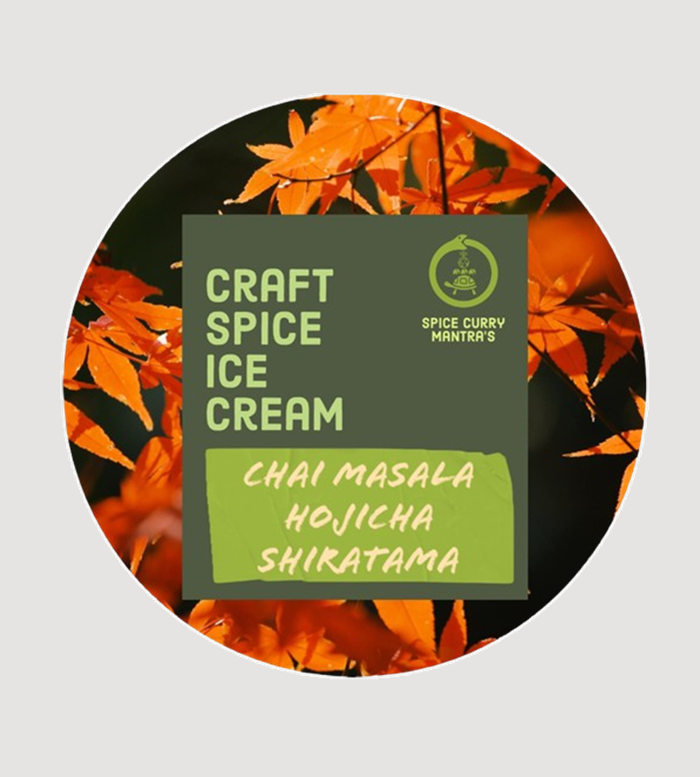
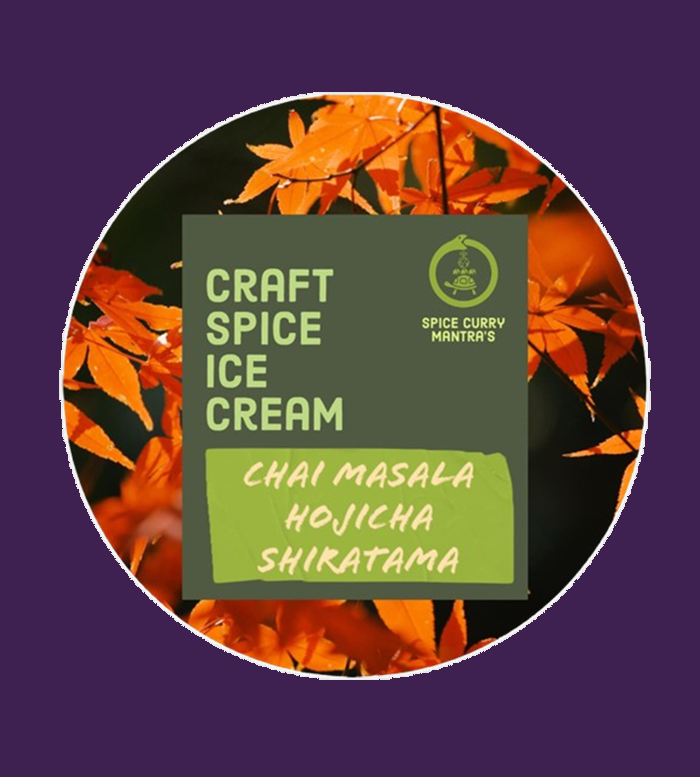
アイス画像背景色変更

diff --git a/app/javascript/stylesheets/application.scss b/app/javascript/stylesheets/application.scss
@@ -61,8 +61,8 @@
 
 .to-menu-button-ice {
   position: absolute;
-  bottom: 25px;
-  left: 35%;
+  bottom: 40px;
+  right: 30px;
 }
 
 .ice-img {
